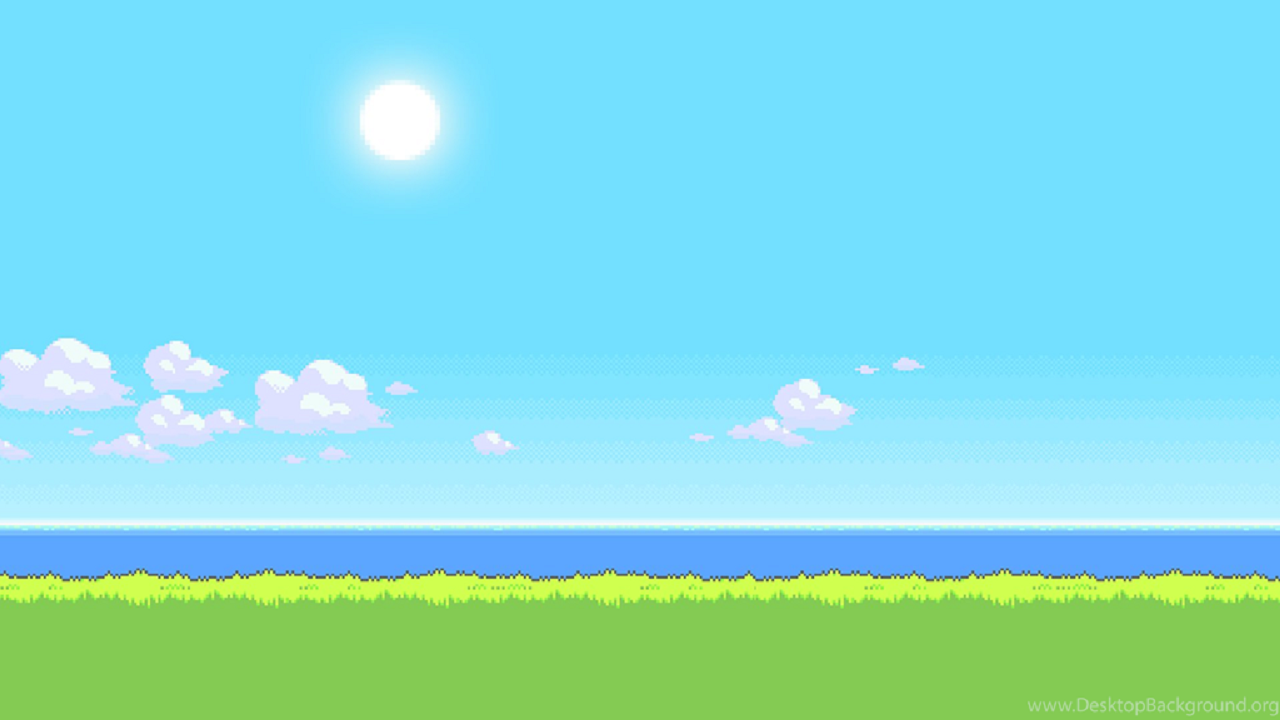
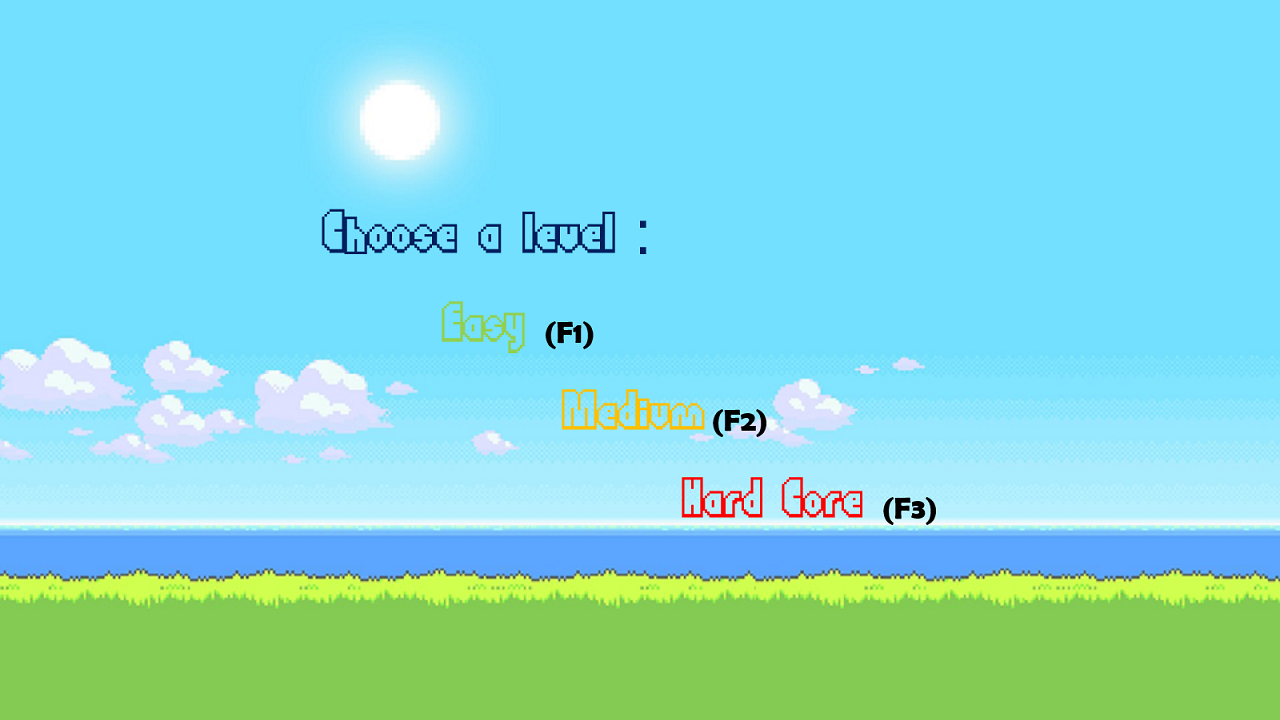
leveldiff

diff --git a/main.py b/main.py
@@ -47,6 +47,9 @@ while run:
         #GAME
         while runGame:
             window.blit(backGame, (0, 0))
+            runGameEasy = False
+            runGameMedium = False
+            runGameHard = False
             
             for event in pygame.event.get():
                 if event.type == KEYDOWN and event.key == K_ESCAPE:
@@ -58,7 +61,21 @@ while run:
                     runHome = False
                     runGame = False
                     print("QuitOnGame")
-                    
+                if event.type == KEYDOWN and event.key == K_F1:
+                    runGameEasy = True
+                    runGameMedium= False
+                    runGameHard = False
+                    print("EasyMode")
+                if event.type == KEYDOWN and event.key ==  K_F2:
+                    runGameEasy = False
+                    runGameMedium= True
+                    runGameHard = False
+                    print("MediumMode")
+                if event.type == KEYDOWN and event.key ==  K_F3:
+                    runGameEasy = False
+                    runGameMedium= False
+                    runGameHard = True
+                    print("HardMode")
             pygame.display.flip()
 
 

diff --git a/classes.py b/classes.py
@@ -6,15 +6,13 @@ from const import *
 class Perso:
 	    def __init__(self, up, down, level):
                 
-                    self.up = pygame.image.load(haut).convert_alpha()
-                    self.down = pygame.image.load(bas).convert_alpha()
+                    self.up = pygame.image.load(up).convert_alpha()
+                    self.down = pygame.image.load(down).convert_alpha()
 
                     self.case_x = 0
                     self.case_y = 0
                     self.x = 0
                     self.y = 0
-                    #Direction par défaut
-                    self.direction = self.droite
-                    #Niveau dans lequel le personnage se trouve 
-                    self.niveau = niveau
 
+                    self.direction = self.up
+                    self.level = level
